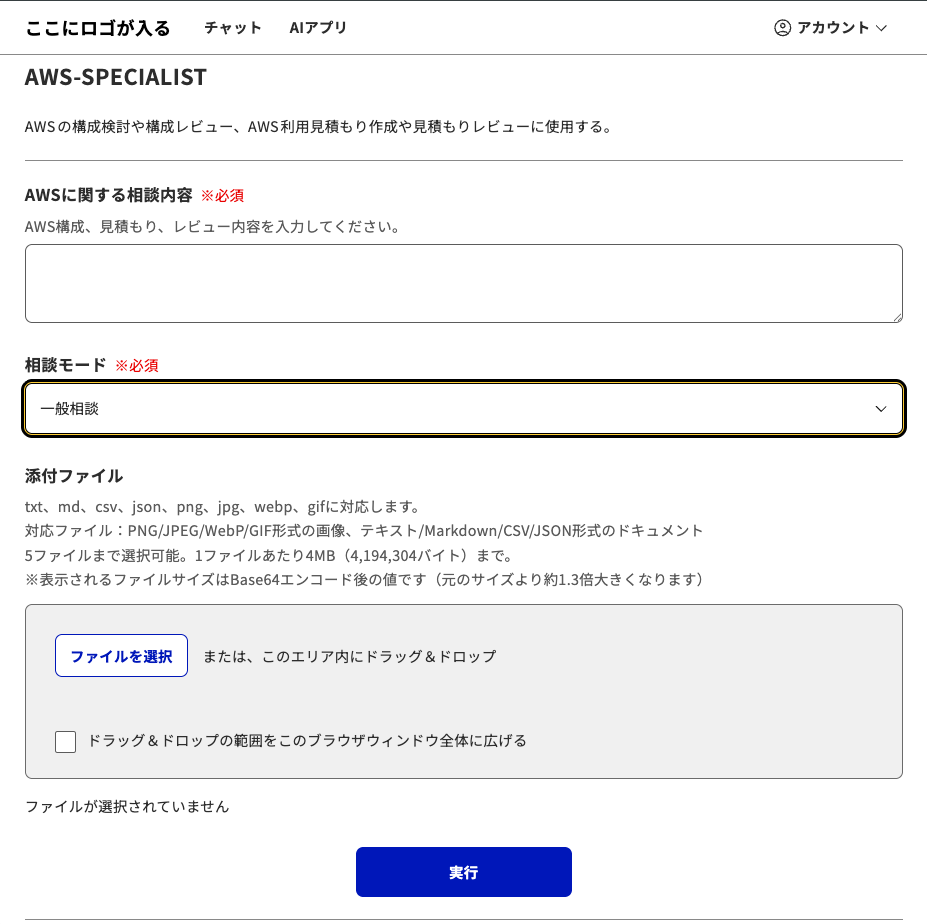
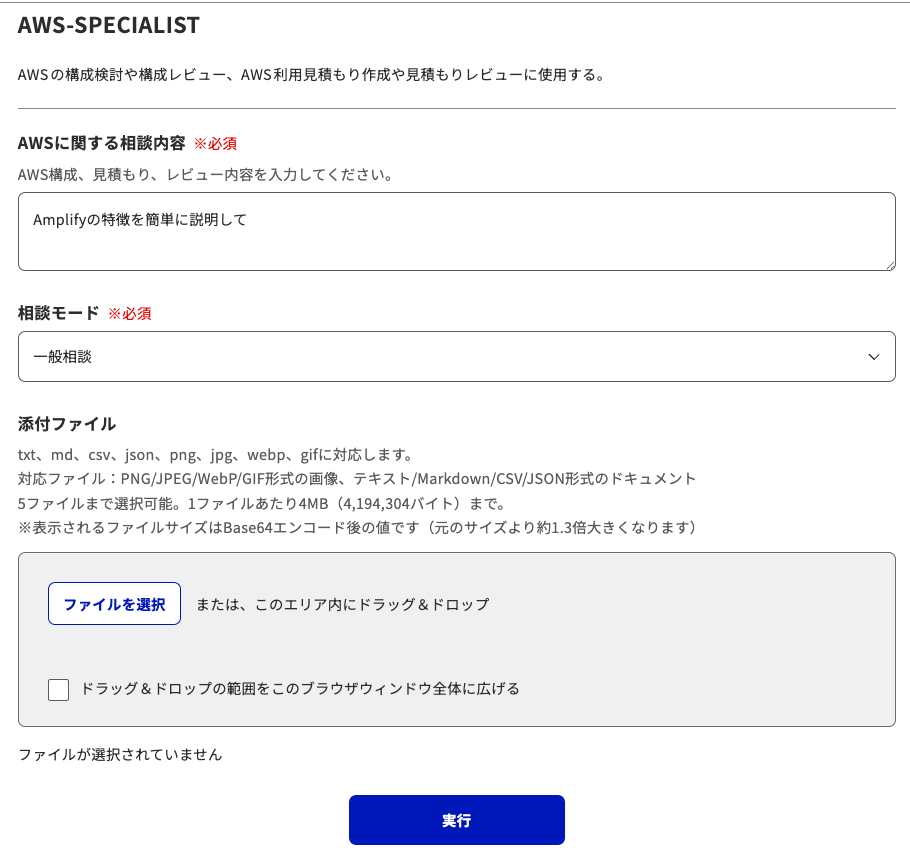
Add AWS Specialist execution screenshots

diff --git a/Presentation/exapp-implementation.md b/Presentation/exapp-implementation.md
@@ -163,6 +163,10 @@ AWS Specialistの利用画面も、既存ExAppと同様にJSON定義から生成
 
 ![JSON定義から生成されたAWS Specialistの入力画面](images/AWS-Specialist入力画面.png)
 
+実行後は、AWS Specialistの回答がMarkdown形式で画面に表示される。
+
+![AWS Specialistの実行結果画面](images/AWS-Specialist実行結果画面.png)
+
 ## 7. 実装して分かったこと
 
 ### 7.1 バックエンドはそのままでは接続できない
